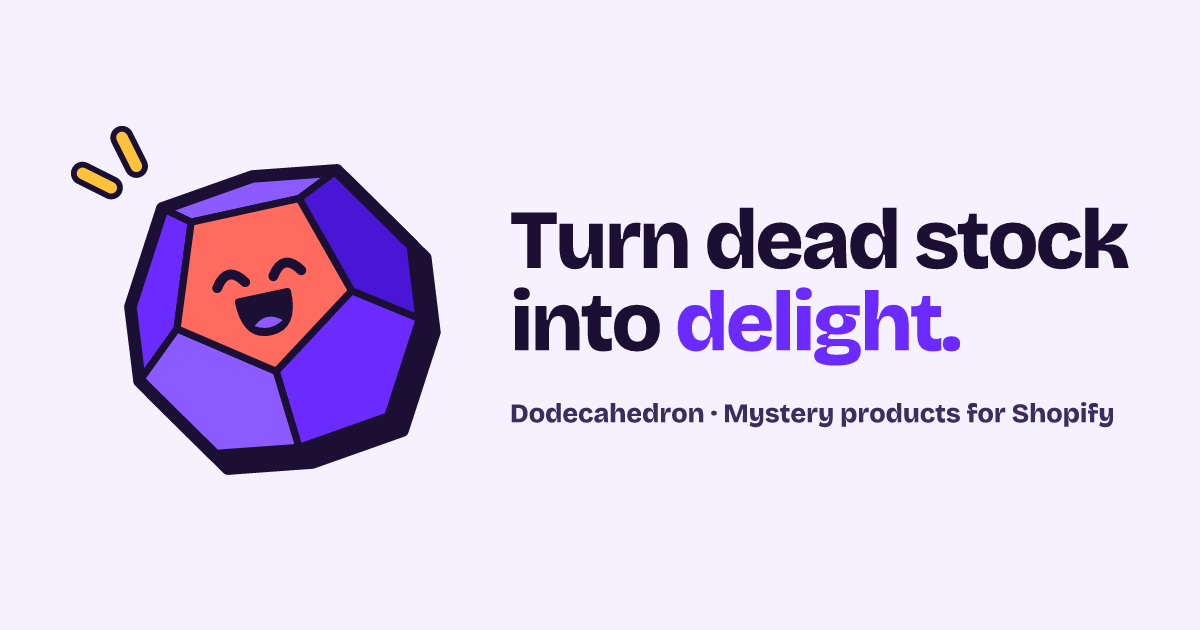
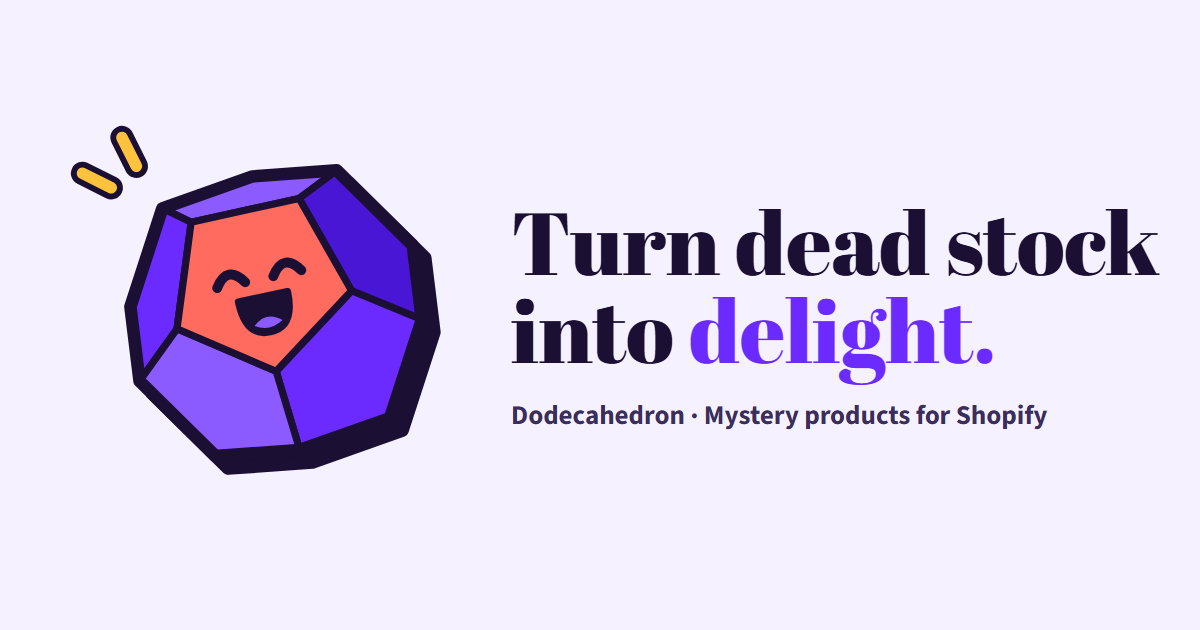
Touchstone pages and share image: Abril Fatface + Source Sans 3
- Home and 404: new fonts, card corners 14px -> 6px
- Share image re-rendered in the new fonts; og:image URL versioned (?v=2) so link previews refresh

Changed region(s): [[0.4008, 0.3317, 0.9867, 0.6937]]

diff --git a/assets/style.css b/assets/style.css
@@ -8,10 +8,10 @@
   --accent: #1f5f5b;
   --accent-soft: #e4efed;
   --accent-text: #ffffff;
-  --radius: 14px;
+  --radius: 6px;
   --max: 1080px;
-  --font: "Inter", system-ui, -apple-system, "Segoe UI", Roboto, sans-serif;
-  --serif: "Fraunces", Georgia, "Times New Roman", serif;
+  --font: "Source Sans 3", system-ui, -apple-system, "Segoe UI", Roboto, sans-serif;
+  --serif: "Abril Fatface", Georgia, "Times New Roman", serif;
 }
 
 @media (prefers-color-scheme: dark) {
@@ -61,8 +61,8 @@ img, svg { max-width: 100%; }
 
 /* Type */
 h1, h2, h3 { line-height: 1.2; letter-spacing: -0.015em; margin: 0 0 0.5em; }
-h1 { font-family: var(--serif); font-weight: 600; font-size: clamp(2.2rem, 5vw, 3.4rem); }
-h2 { font-family: var(--serif); font-weight: 600; font-size: clamp(1.6rem, 3vw, 2.1rem); margin-top: 1.8em; }
+h1 { font-family: var(--serif); font-weight: 400; font-size: clamp(2.2rem, 5vw, 3.4rem); }
+h2 { font-family: var(--serif); font-weight: 400; font-size: clamp(1.6rem, 3vw, 2.1rem); margin-top: 1.8em; }
 h3 { font-size: 1.1rem; }
 p { margin: 0 0 1em; }
 .lede { font-size: 1.2rem; color: var(--muted); max-width: 640px; }
@@ -72,10 +72,10 @@ p { margin: 0 0 1em; }
 /* Dictionary-entry hero */
 .definition { max-width: 680px; }
 .definition h1 { font-size: clamp(2.8rem, 8vw, 4.6rem); margin-bottom: 0.1em; }
-.pron { font-family: var(--serif); font-size: 1.15rem; color: var(--muted); padding-bottom: 20px; border-bottom: 1px solid var(--line); margin-bottom: 24px; }
+.pron { font-family: var(--font); font-size: 1.15rem; color: var(--muted); padding-bottom: 20px; border-bottom: 1px solid var(--line); margin-bottom: 24px; }
 .pron b { font-weight: 600; color: var(--text); }
 .pron i { margin-left: 0.4em; }
-.sense { font-family: var(--serif); font-size: 1.45rem; line-height: 1.45; margin-bottom: 28px; }
+.sense { font-family: var(--font); font-size: 1.45rem; font-weight: 500; line-height: 1.45; margin-bottom: 28px; }
 
 /* Sections */
 .hero { padding: 88px 0 56px; }

diff --git a/dodecahedron/index.html b/dodecahedron/index.html
@@ -24,7 +24,7 @@
   <meta property="og:url" content="https://touchstonecommerce.com/dodecahedron/">
   <meta property="og:title" content="Dodecahedron: Turn dead stock into delight.">
   <meta property="og:description" content="A Shopify app that bundles slow-moving inventory into mystery products customers love to open.">
-  <meta property="og:image" content="https://touchstonecommerce.com/assets/og-image.png">
+  <meta property="og:image" content="https://touchstonecommerce.com/assets/og-image.png?v=2">
   <meta property="og:image:width" content="1200">
   <meta property="og:image:height" content="630">
   <meta property="og:image:alt" content="Dodecahedron: Turn dead stock into delight.">
@@ -32,7 +32,7 @@
   <link rel="preconnect" href="https://fonts.googleapis.com">
   <link rel="preconnect" href="https://fonts.gstatic.com" crossorigin>
   <link href="https://fonts.googleapis.com/css2?family=Abril+Fatface&family=Source+Sans+3:wght@400;500;600;700&display=swap" rel="stylesheet">
-  <link rel="stylesheet" href="/assets/style.css?v=ad52bd32">
+  <link rel="stylesheet" href="/assets/style.css?v=8288f06d">
   <script src="/assets/dodeca.js?v=b319b63f" defer></script>
   <script src="/assets/dodeca-demo.js?v=84dfddea" defer></script>
   <!-- FAQPage answers must match the visible #faq section word for word: edit both together. -->

diff --git a/dodecahedron/pricing/index.html b/dodecahedron/pricing/index.html
@@ -23,7 +23,7 @@
   <meta property="og:url" content="https://touchstonecommerce.com/dodecahedron/pricing/">
   <meta property="og:title" content="Dodecahedron Pricing · Touchstone Commerce">
   <meta property="og:description" content="Dodecahedron pricing: a Free plan with 25 mystery orders a month, and Pro at $29 a month with 100 mystery orders included, then $0.50 per order.">
-  <meta property="og:image" content="https://touchstonecommerce.com/assets/og-image.png">
+  <meta property="og:image" content="https://touchstonecommerce.com/assets/og-image.png?v=2">
   <meta property="og:image:width" content="1200">
   <meta property="og:image:height" content="630">
   <meta property="og:image:alt" content="Dodecahedron: Turn dead stock into delight.">
@@ -31,7 +31,7 @@
   <link rel="preconnect" href="https://fonts.googleapis.com">
   <link rel="preconnect" href="https://fonts.gstatic.com" crossorigin>
   <link href="https://fonts.googleapis.com/css2?family=Abril+Fatface&family=Source+Sans+3:wght@400;500;600;700&display=swap" rel="stylesheet">
-  <link rel="stylesheet" href="/assets/style.css?v=ad52bd32">
+  <link rel="stylesheet" href="/assets/style.css?v=8288f06d">
   <script src="/assets/dodeca.js?v=b319b63f" defer></script>
 </head>
 <body class="dodeca">

diff --git a/dodecahedron/help/index.html b/dodecahedron/help/index.html
@@ -23,7 +23,7 @@
   <meta property="og:url" content="https://touchstonecommerce.com/dodecahedron/help/">
   <meta property="og:title" content="Dodecahedron Help · Touchstone Commerce">
   <meta property="og:description" content="Set up Dodecahedron: fulfillment, 3PL rules, the order page card, returns, inventory and reporting.">
-  <meta property="og:image" content="https://touchstonecommerce.com/assets/og-image.png">
+  <meta property="og:image" content="https://touchstonecommerce.com/assets/og-image.png?v=2">
   <meta property="og:image:width" content="1200">
   <meta property="og:image:height" content="630">
   <meta property="og:image:alt" content="Dodecahedron: Turn dead stock into delight.">
@@ -31,7 +31,7 @@
   <link rel="preconnect" href="https://fonts.googleapis.com">
   <link rel="preconnect" href="https://fonts.gstatic.com" crossorigin>
   <link href="https://fonts.googleapis.com/css2?family=Abril+Fatface&family=Source+Sans+3:wght@400;500;600;700&display=swap" rel="stylesheet">
-  <link rel="stylesheet" href="/assets/style.css?v=ad52bd32">
+  <link rel="stylesheet" href="/assets/style.css?v=8288f06d">
   <script src="/assets/dodeca.js?v=b319b63f" defer></script>
 </head>
 <body class="dodeca">

diff --git a/terms/index.html b/terms/index.html
@@ -23,7 +23,7 @@
   <meta property="og:url" content="https://touchstonecommerce.com/terms/">
   <meta property="og:title" content="Terms of Service · Dodecahedron">
   <meta property="og:description" content="The Dodecahedron Terms of Service and Data Processing Addendum from Touchstone Commerce LLC.">
-  <meta property="og:image" content="https://touchstonecommerce.com/assets/og-image.png">
+  <meta property="og:image" content="https://touchstonecommerce.com/assets/og-image.png?v=2">
   <meta property="og:image:width" content="1200">
   <meta property="og:image:height" content="630">
   <meta property="og:image:alt" content="Dodecahedron: Turn dead stock into delight.">
@@ -31,7 +31,7 @@
   <link rel="preconnect" href="https://fonts.googleapis.com">
   <link rel="preconnect" href="https://fonts.gstatic.com" crossorigin>
   <link href="https://fonts.googleapis.com/css2?family=Abril+Fatface&family=Source+Sans+3:wght@400;500;600;700&display=swap" rel="stylesheet">
-  <link rel="stylesheet" href="/assets/style.css?v=ad52bd32">
+  <link rel="stylesheet" href="/assets/style.css?v=8288f06d">
   <script src="/assets/dodeca.js?v=b319b63f" defer></script>
 </head>
 <body class="dodeca">

diff --git a/privacy/index.html b/privacy/index.html
@@ -23,7 +23,7 @@
   <meta property="og:url" content="https://touchstonecommerce.com/privacy/">
   <meta property="og:title" content="Privacy Policy · Dodecahedron">
   <meta property="og:description" content="How Touchstone Commerce and the Dodecahedron Shopify app collect, use and protect data.">
-  <meta property="og:image" content="https://touchstonecommerce.com/assets/og-image.png">
+  <meta property="og:image" content="https://touchstonecommerce.com/assets/og-image.png?v=2">
   <meta property="og:image:width" content="1200">
   <meta property="og:image:height" content="630">
   <meta property="og:image:alt" content="Dodecahedron: Turn dead stock into delight.">
@@ -31,7 +31,7 @@
   <link rel="preconnect" href="https://fonts.googleapis.com">
   <link rel="preconnect" href="https://fonts.gstatic.com" crossorigin>
   <link href="https://fonts.googleapis.com/css2?family=Abril+Fatface&family=Source+Sans+3:wght@400;500;600;700&display=swap" rel="stylesheet">
-  <link rel="stylesheet" href="/assets/style.css?v=ad52bd32">
+  <link rel="stylesheet" href="/assets/style.css?v=8288f06d">
   <script src="/assets/dodeca.js?v=b319b63f" defer></script>
 </head>
 <body class="dodeca">

diff --git a/index.html b/index.html
@@ -21,8 +21,8 @@
   <link rel="manifest" href="/assets/site.webmanifest">
   <link rel="preconnect" href="https://fonts.googleapis.com">
   <link rel="preconnect" href="https://fonts.gstatic.com" crossorigin>
-  <link href="https://fonts.googleapis.com/css2?family=Fraunces:ital,opsz,wght@0,9..144,400;0,9..144,600;1,9..144,400&family=Inter:wght@400;600;650;700&display=swap" rel="stylesheet">
-  <link rel="stylesheet" href="/assets/style.css?v=ad52bd32">
+  <link href="https://fonts.googleapis.com/css2?family=Abril+Fatface&family=Source+Sans+3:wght@400;500;600;700&display=swap" rel="stylesheet">
+  <link rel="stylesheet" href="/assets/style.css?v=8288f06d">
 </head>
 <body>
   <!-- Google Tag Manager (noscript) -->

diff --git a/404.html b/404.html
@@ -20,8 +20,8 @@
   <link rel="manifest" href="/assets/site.webmanifest">
   <link rel="preconnect" href="https://fonts.googleapis.com">
   <link rel="preconnect" href="https://fonts.gstatic.com" crossorigin>
-  <link href="https://fonts.googleapis.com/css2?family=Fraunces:opsz,wght@9..144,600&family=Inter:wght@400;600;650;700&display=swap" rel="stylesheet">
-  <link rel="stylesheet" href="/assets/style.css?v=ad52bd32">
+  <link href="https://fonts.googleapis.com/css2?family=Abril+Fatface&family=Source+Sans+3:wght@400;500;600;700&display=swap" rel="stylesheet">
+  <link rel="stylesheet" href="/assets/style.css?v=8288f06d">
 </head>
 <body>
   <!-- Google Tag Manager (noscript) -->
